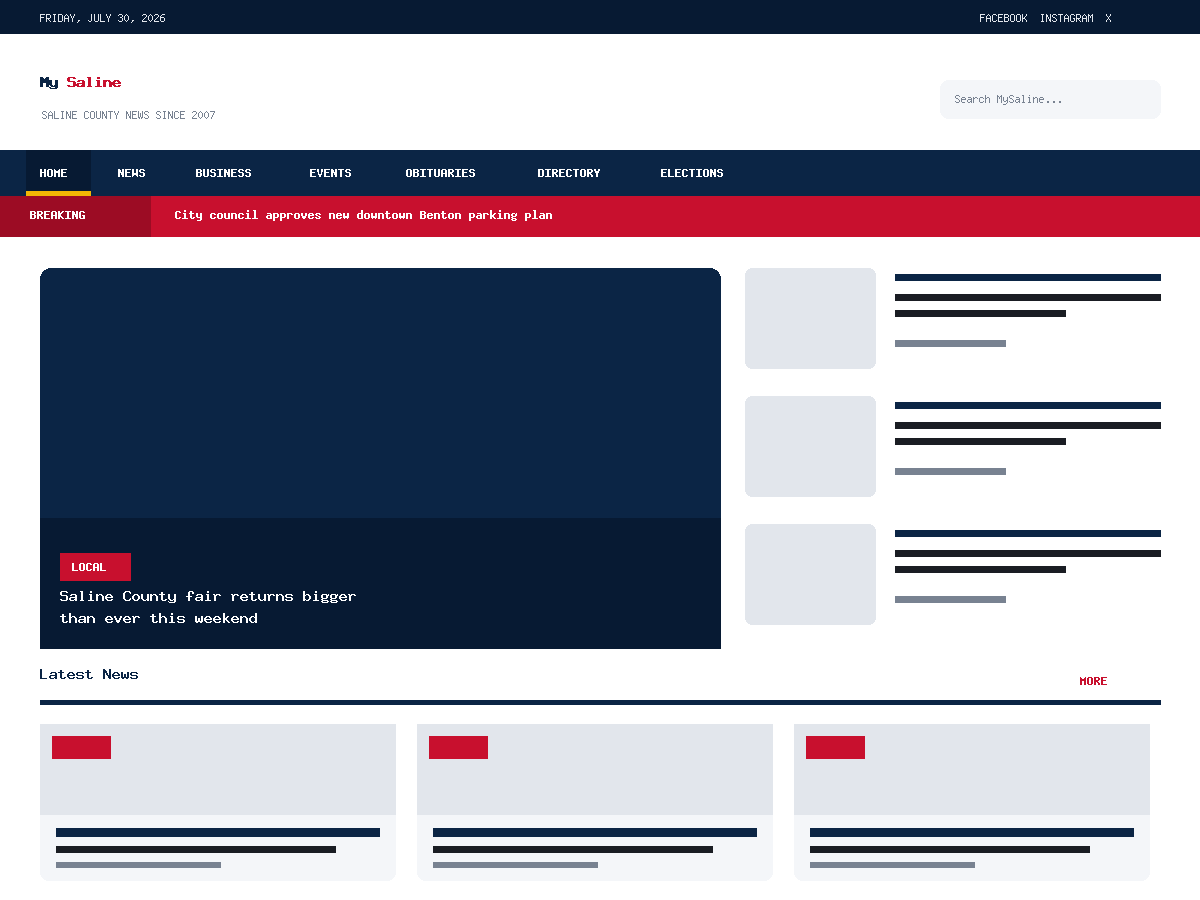
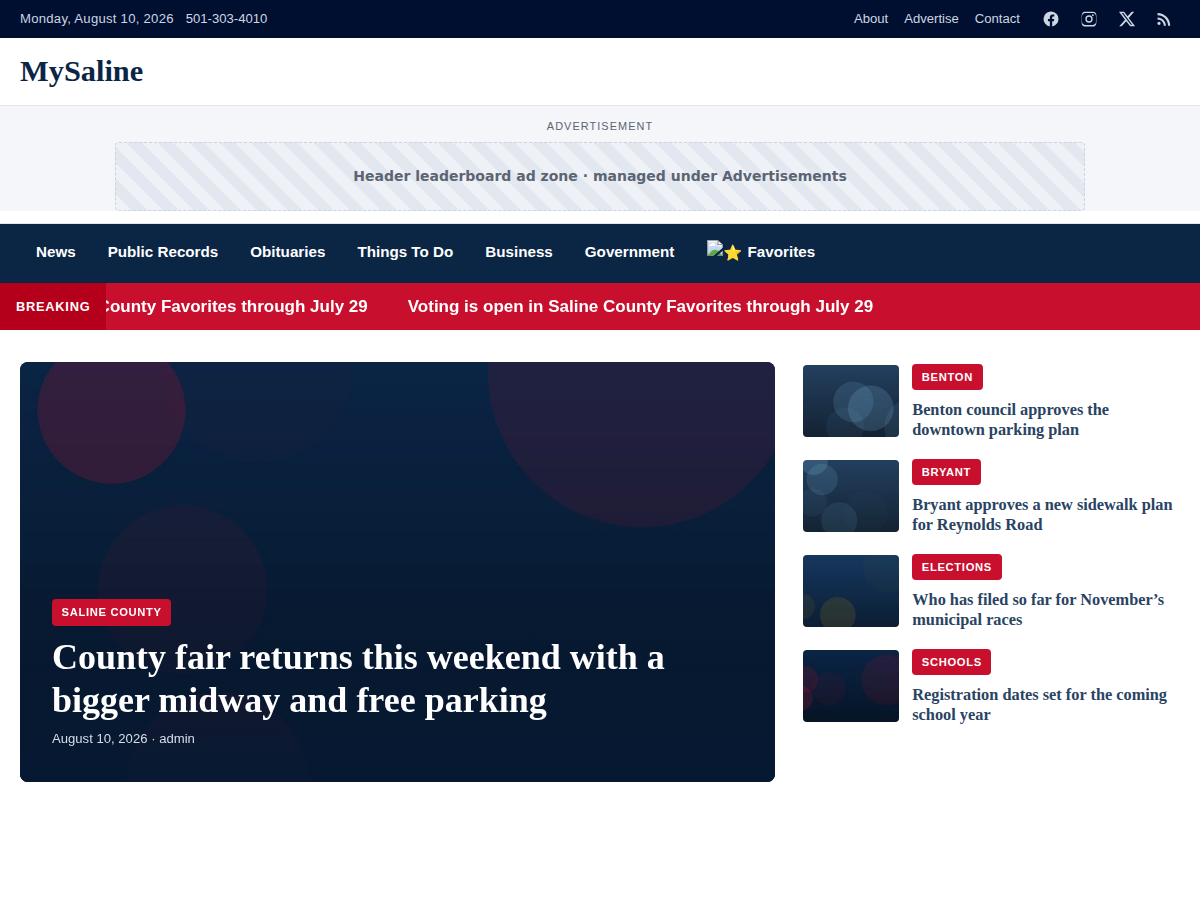
Fix masthead padding; ship a real screenshot
The logo sat flush against the viewport edge while the top bar, navigation
and body content were all inset. The cause was .ms-header__inner carrying
both .ms-container and its own `padding: 1.15rem 0` — the shorthand won on
the shared element and zeroed the container's horizontal padding. Only the
vertical sides are set now, so the container's inset survives. Audited the
rest of the templates: this was the only element combining .ms-container
with a class that resets padding.

screenshot.png was a generated mockup rather than the theme. It is now a
1200x900 capture of the theme actually running on WordPress 7.0.3, which
is what anyone browsing Appearance → Themes will judge it by.

Verified against the running install while confirming the fix:

- Both section hubs build their cards from child pages (3 and 2), the
  full-width template renders with no sidebar, and print.css is enqueued
  with media="print" so it only applies on paper.
- The Customizer loads clean with every MySaline section present, and all
  five block patterns are registered and titled.
- Mobile renders correctly at the narrowest layout the browser will
  produce: hamburger menu, stacked hero, two-by-two quick links, and the
  sticky anchor advertisement with its dismiss control.

Claude-Session: https://claude.ai/code/session_01SuFq5LvNofRCq4iAuWozmA

diff --git a/mysaline/style.css b/mysaline/style.css
@@ -190,7 +190,10 @@ label { font-weight: 600; display: block; margin-bottom: .35rem; }
 .ms-topbar__left { display: flex; align-items: center; gap: .75rem; flex-wrap: wrap; }
 
 .ms-header { background: var(--ms-bg); border-bottom: 1px solid var(--ms-border); }
-.ms-header__inner { display: flex; align-items: center; justify-content: space-between; gap: 1.5rem; padding: 1.15rem 0; }
+/* This element also carries .ms-container. Using the padding shorthand here
+   zeroed the container's horizontal padding, pushing the masthead flush to
+   the viewport edge, so only the vertical sides are set. */
+.ms-header__inner { display: flex; align-items: center; justify-content: space-between; gap: 1.5rem; padding-top: 1.15rem; padding-bottom: 1.15rem; }
 .ms-brand { display: flex; align-items: center; gap: .85rem; min-width: 0; }
 .ms-brand__logo img { max-height: 66px; width: auto; }
 .ms-brand__title { font-family: var(--ms-font-head); font-size: 1.9rem; font-weight: 800; color: var(--ms-primary); margin: 0; line-height: 1; }
